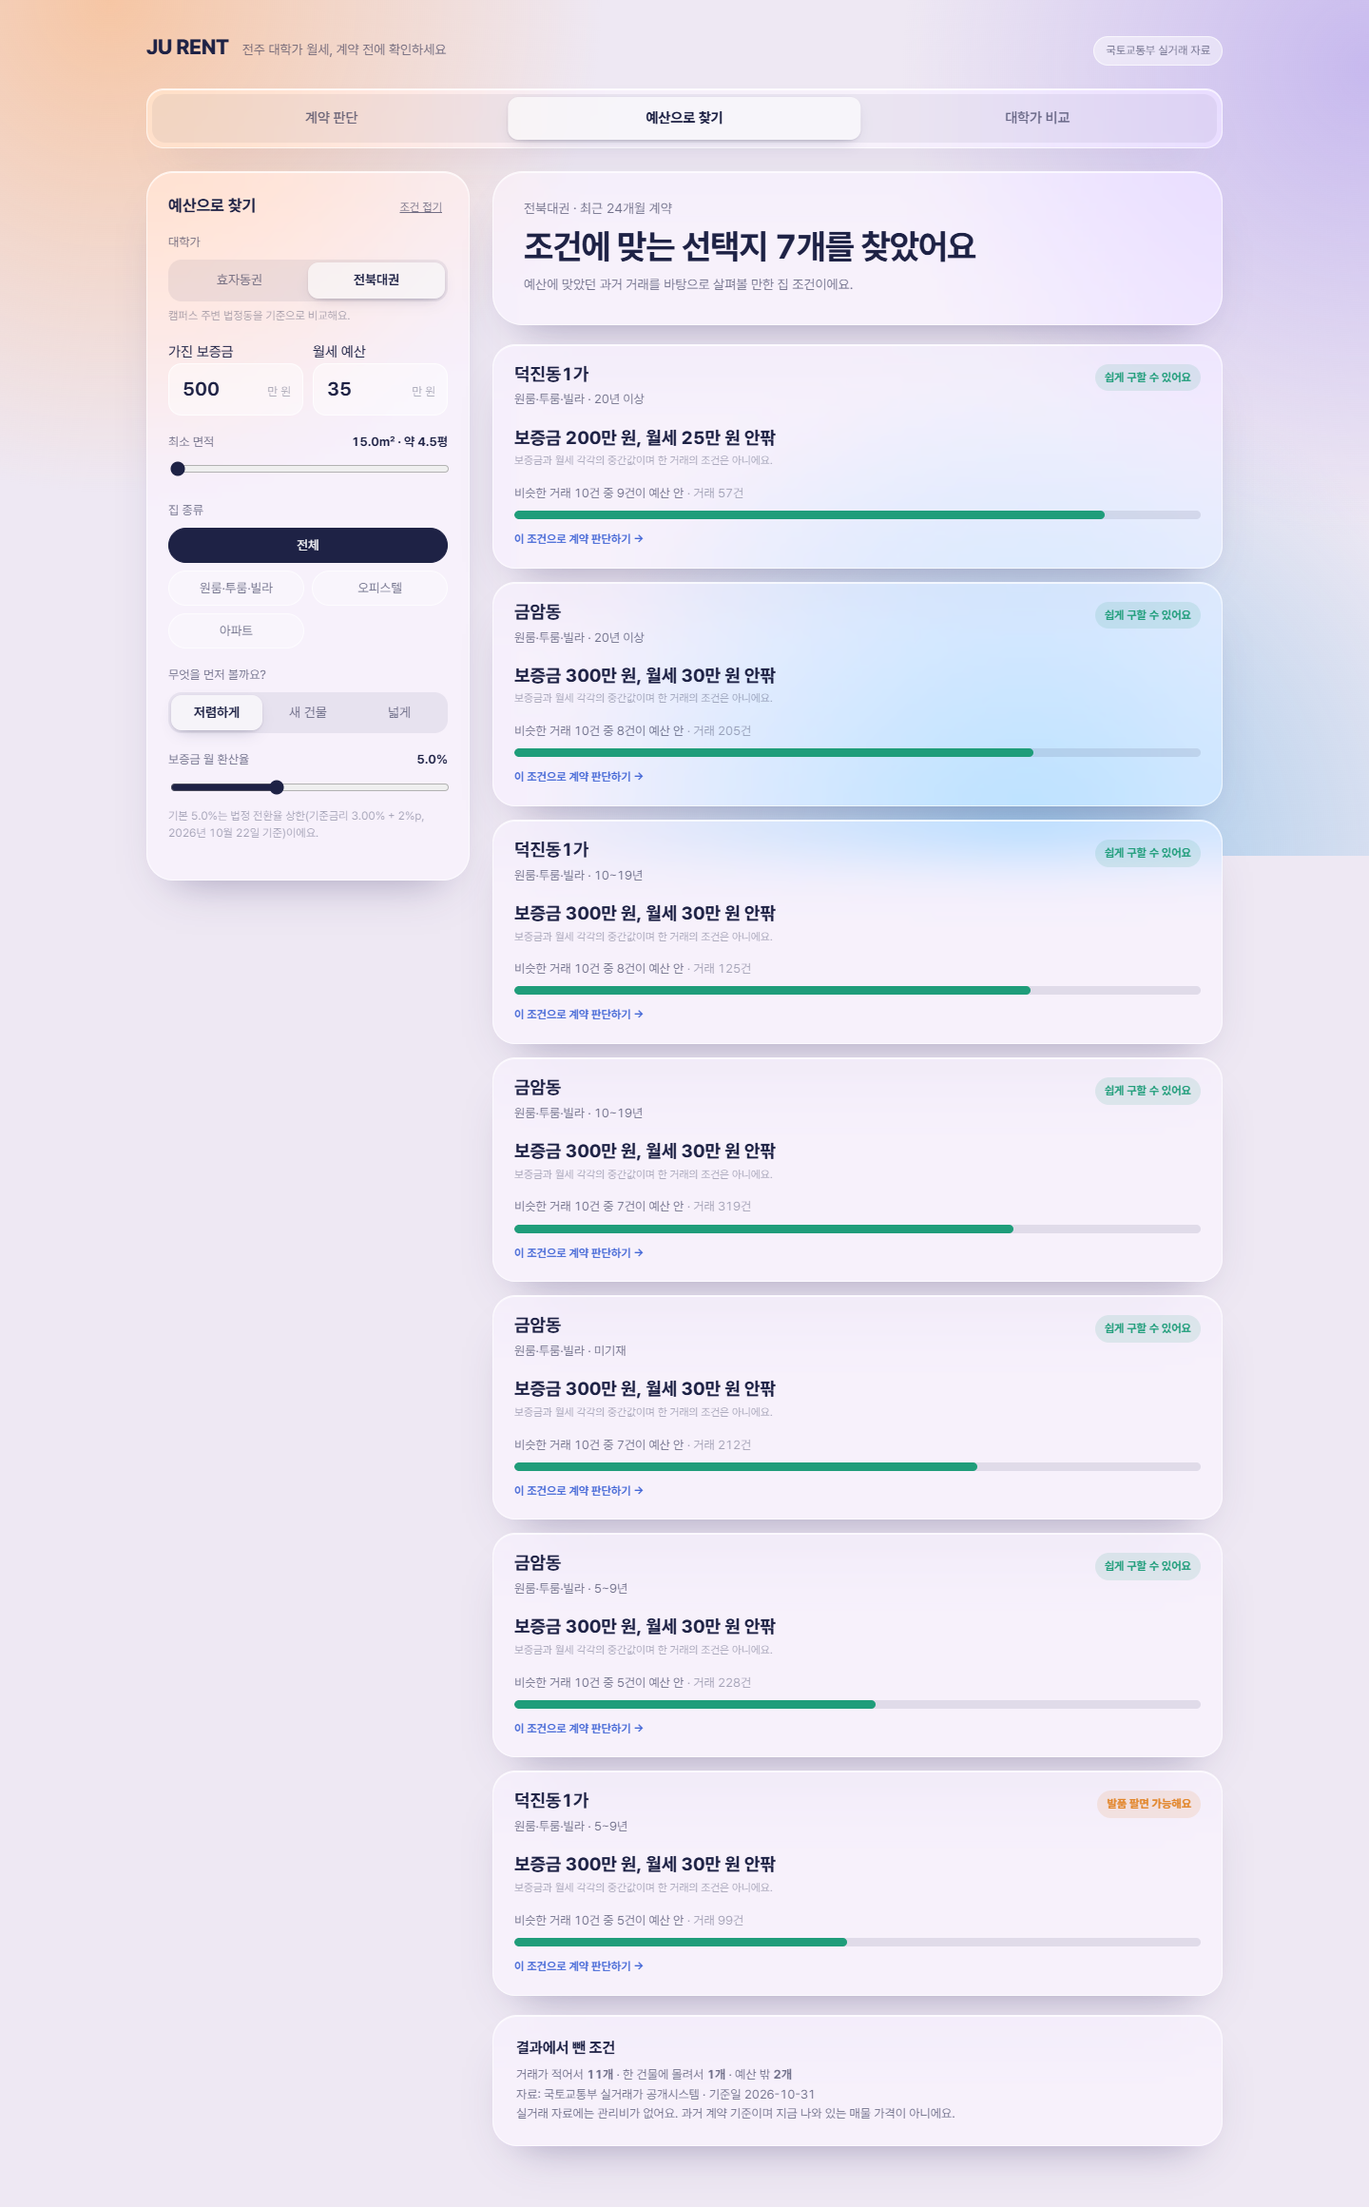
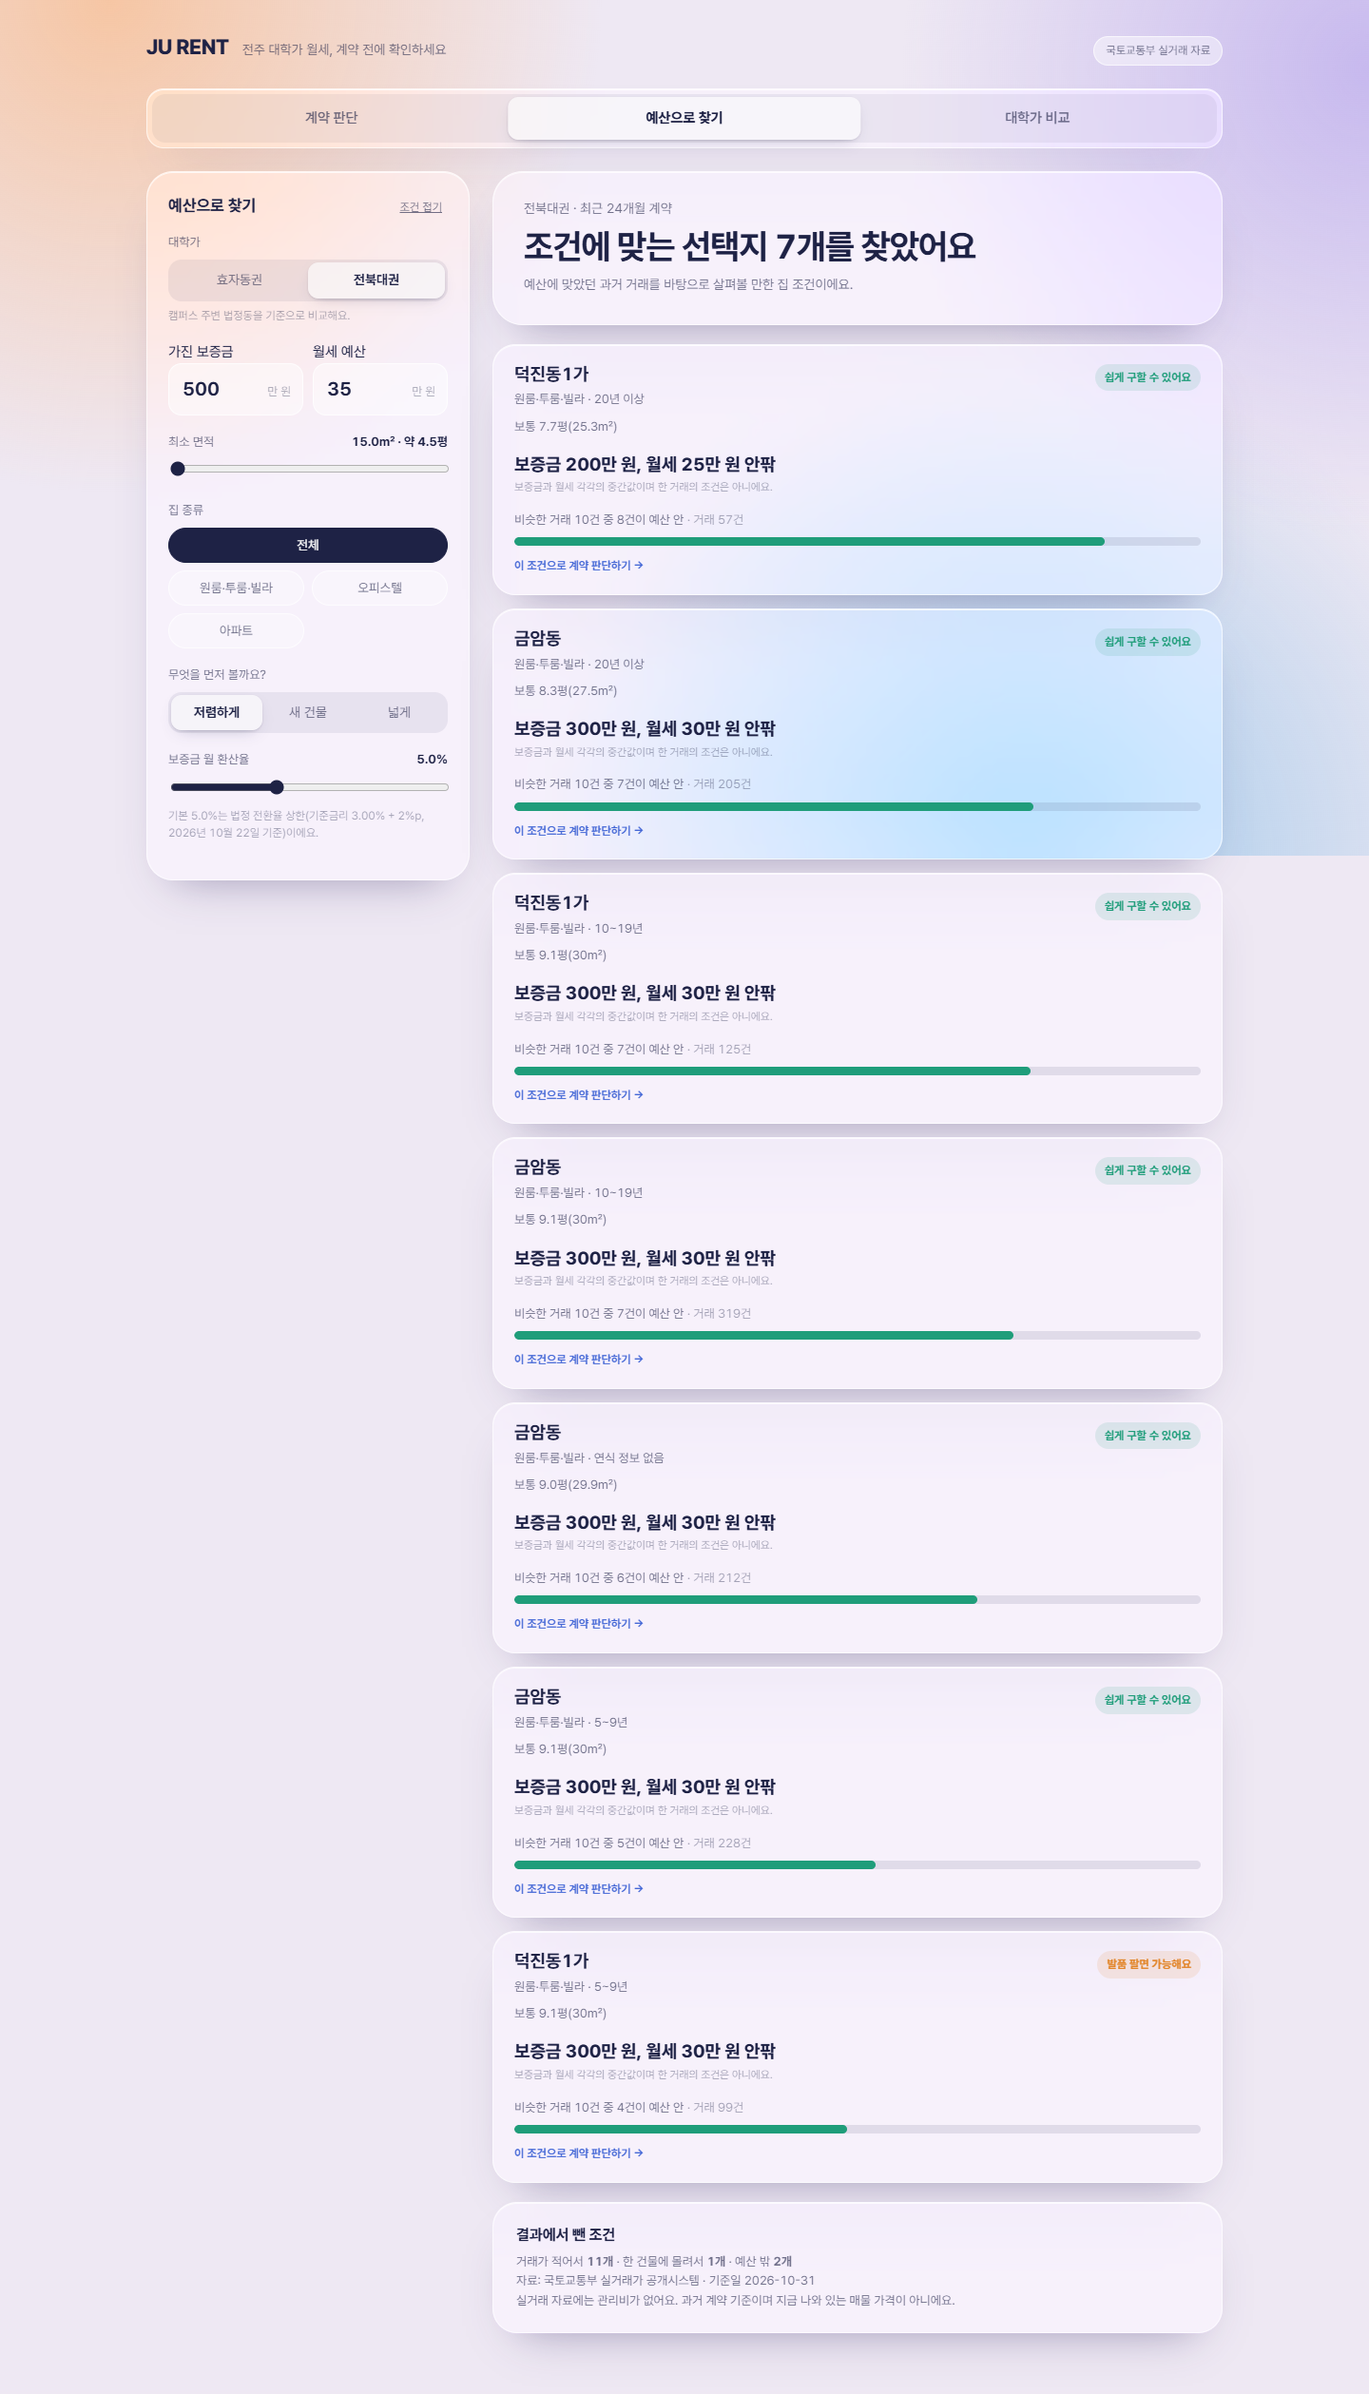
Refine area budget and comparison displays

diff --git a/web/src/AreaViews.tsx b/web/src/AreaViews.tsx
@@ -1,6 +1,6 @@
 import { AnimatePresence, motion, useReducedMotion } from 'motion/react'
 import { useEffect, useState } from 'react'
-import { EMPTY_BUDGET_MESSAGE, availabilityTone, budgetSummary, cardToContract, tenDealSentence, typicalTerms } from './areaCopy'
+import { EMPTY_BUDGET_MESSAGE, ageBandLabel, availabilityTone, budgetSummary, cardToContract, integerMoney, tenDealSentence, typicalArea, typicalRange, typicalTerms } from './areaCopy'
 import Count from './Count'
 import { rateHint } from './copy'
 import { housingName } from './housing'
@@ -37,9 +37,10 @@ function BudgetCard({ card, campus, rate, onChoose }: {
     initial={{ opacity: 0, y: reduced ? 0 : 12 }} animate={{ opacity: 1, y: 0 }} exit={{ opacity: 0, y: reduced ? 0 : -8 }}
     transition={{ duration: reduced ? 0 : 0.25, ease: [0.2, 0.8, 0.2, 1] }}
     onClick={() => onChoose(cardToContract(card, campus, rate))}
-    aria-label={`${card.dong} ${housingName(card.housing_type)} ${card.age_band}, 계약 판단에서 보기`}>
-    <span className="budget-card-head"><span><strong>{card.dong}</strong><small>{housingName(card.housing_type)} · {card.age_band}</small></span>
+    aria-label={`${card.dong} ${housingName(card.housing_type)} ${ageBandLabel(card.age_band)}, ${typicalArea(card.area_median_sqm)}, 계약 판단에서 보기`}>
+    <span className="budget-card-head"><span><strong>{card.dong}</strong><small>{housingName(card.housing_type)} · {ageBandLabel(card.age_band)}</small></span>
       <span className={`availability ${availabilityTone(card.availability_label)}`}>{card.availability_label}</span></span>
+    <span className="budget-area">{typicalArea(card.area_median_sqm)}</span>
     <span className="budget-terms">{typicalTerms(card)}</span>
     <span className="budget-typical-note">{card.typical_terms_note}</span>
     <span className="budget-bar-copy">{tenDealSentence(card)} <em>· 거래 <Count value={card.n} />건</em></span>
@@ -176,15 +177,24 @@ function decimal(value: number): string {
 
 function TrendChart({ rows, campuses }: { rows: PriceTrend[]; campuses: string[] }) {
   const values = rows.map(row => row.converted_median_10k_krw).filter((value): value is number => value !== null)
-  const low = Math.min(...values) - 2
-  const high = Math.max(...values) + 2
-  const y = (value: number) => 196 - (value - low) / (high - low) * 150
-  const x = (index: number) => 44 + index * 125
+  if (!values.length) return <p className="hint">추이를 표시할 거래가 부족해요.</p>
+  const tickStep = Math.max(1, Math.ceil((Math.max(...values) - Math.min(...values) + 2) / 4))
+  const low = Math.floor((Math.min(...values) - 0.8) / tickStep) * tickStep
+  const high = Math.ceil((Math.max(...values) + 0.8) / tickStep) * tickStep
+  const ticks = Array.from({ length: Math.round((high - low) / tickStep) + 1 }, (_, index) => low + index * tickStep)
+  const y = (value: number) => 190 - (value - low) / (high - low) * 136
+  const x = (index: number) => 58 + index * 125
   const years = [...new Set(rows.map(row => row.year))].sort()
   return <div className="trend-chart">
     <div className="trend-legend">{campuses.map((campus, index) => <span key={campus}>
       <i style={{ background: index === 0 ? 'var(--normal)' : 'var(--very)' }} />{campus}</span>)}</div>
-    <svg viewBox="0 0 720 245" role="img" aria-label="두 대학가의 원룸·투룸·빌라 25~35㎡ 연도별 월세 비교">
+    <div className="trend-plot"><svg viewBox="0 0 720 245" role="img" aria-label="두 대학가의 원룸·투룸·빌라 25~35㎡ 연도별 환산 월세 비교">
+      <desc>{rows.map(row => `${row.campus} ${row.year}년 ${row.converted_median_10k_krw === null ? '표본 부족' : `${decimal(row.converted_median_10k_krw)}만 원`}`).join(', ')}</desc>
+      <text x="7" y="28" className="trend-unit">만 원</text>
+      {ticks.map(tick => <g key={tick} className="trend-grid">
+        <line x1="43" y1={y(tick)} x2="698" y2={y(tick)} />
+        <text x="36" y={y(tick) + 4} textAnchor="end">{tick.toLocaleString('ko-KR')}</text>
+      </g>)}
       {years.map((year, index) => <text key={year} x={x(index)} y="228" textAnchor="middle" className="trend-year">
         {year === 2026 ? '2026*' : year}</text>)}
       {campuses.map((campus, index) => {
@@ -194,16 +204,27 @@ function TrendChart({ rows, campuses }: { rows: PriceTrend[]; campuses: string[]
         return <g key={campus} fill="none" stroke={color} strokeWidth="3">
           <polyline points={points.slice(0, 5).map(point => `${point.x},${point.y}`).join(' ')} />
           <line x1={points[4].x} y1={points[4].y} x2={points[5].x} y2={points[5].y} strokeDasharray="8 6" />
-          {points.map(point => <circle key={point.row.year} cx={point.x} cy={point.y} r="5" fill="white">
-            <title>{campus} {point.row.year}년 {point.row.converted_median_10k_krw === null ? '표본 부족' : `${decimal(point.row.converted_median_10k_krw)}만 원`}</title>
-          </circle>)}
+          {points.map(point => {
+            const other = rows.find(row => row.campus !== campus && row.year === point.row.year)
+            const otherY = other?.converted_median_10k_krw == null ? null : y(other.converted_median_10k_krw)
+            const close = otherY !== null && Math.abs(otherY - point.y) < 20
+            const lower = close && otherY !== null && point.y > otherY + 1
+            const higherOrEqual = index === 1 && close && otherY !== null && point.y <= otherY + 1
+            return <g key={point.row.year}>
+            <circle cx={point.x} cy={point.y} r="5" fill="white">
+              <title>{campus} {point.row.year}년 {point.row.converted_median_10k_krw === null ? '표본 부족' : `${decimal(point.row.converted_median_10k_krw)}만 원`}</title>
+            </circle>
+            {point.row.converted_median_10k_krw !== null && <text
+              x={point.x - (lower ? 18 : 0)} y={point.y - (higherOrEqual ? 28 : 13)}
+              textAnchor="middle" className="trend-point-value" fill={color} stroke="none">
+              {decimal(point.row.converted_median_10k_krw)}</text>}
+          </g>
+          })}
         </g>
       })}
-    </svg>
+    </svg></div>
+    <p className="trend-scroll-hint">그래프를 좌우로 밀어 전체 연도를 볼 수 있어요.</p>
     <p className="hint">* 2026년은 1~10월 계약이며 점선으로 표시했어요.</p>
-    <div className="trend-values">{rows.map(row => <div key={`${row.campus}-${row.year}`}>
-      <span>{row.campus} · {row.year}년{row.partial_year ? ' 1~10월' : ''}</span>
-      <b>{row.converted_median_10k_krw === null ? '표본 부족' : `${decimal(row.converted_median_10k_krw)}만 원`}</b></div>)}</div>
   </div>
 }
 
@@ -238,14 +259,14 @@ export function CompareView({ meta, rate, onRateChange }: SharedProps) {
     {displayed && <>
       <div className="compare-grid">{meta.campuses.map(campus => <section className="card glass compare-card" key={campus}>
         <h2>{campus}</h2><p className="compare-card-sub">집 종류와 면적에 따라 비교해요.</p>
-        <table className="compare-table"><thead><tr><th scope="col">집 종류·면적</th><th scope="col">월세 수준</th>
+        <table className="compare-table"><thead><tr><th scope="col">집 종류·면적</th><th scope="col">환산 월세(중간값)</th>
           <th scope="col">보통 계약 조건</th><th scope="col">거래</th></tr></thead><tbody>
           {displayed.area_bands.filter(row => row.campus === campus).map(row => <tr key={`${row.housing_type}-${row.area_band}`}>
             <th scope="row"><strong>{housingName(row.housing_type)}</strong><small>{row.area_band}</small></th>
-            <td data-label="월세 수준">{row.sample_note ? <span className="sample-pill">표본 부족</span> : <>
-              <b>{decimal(row.quantiles_10k_krw!.p50)}만 원</b><small>25~75%: {decimal(row.quantiles_10k_krw!.p25)}~{decimal(row.quantiles_10k_krw!.p75)}만 원</small></>}</td>
+            <td data-label="환산 월세(중간값)">{row.sample_note ? <span className="sample-pill">표본 부족</span> : <>
+              <b>{decimal(row.quantiles_10k_krw!.p50)}만 원</b><small className="compare-range">{typicalRange(row.quantiles_10k_krw!.p25, row.quantiles_10k_krw!.p75)}</small></>}</td>
             <td data-label="보통 계약 조건">{row.sample_note ? '—' : <span>
-              보증금 {decimal(row.deposit_median_10k_krw!)}만 원<br />월세 {decimal(row.monthly_median_10k_krw!)}만 원</span>}</td>
+              보증금 {integerMoney(row.deposit_median_10k_krw!)}만 원<br />월세 {integerMoney(row.monthly_median_10k_krw!)}만 원</span>}</td>
             <td data-label="거래">{row.n.toLocaleString('ko-KR')}건</td>
           </tr>)}</tbody></table></section>)}</div>
       <section className="card glass trend-section"><h2>원룸·투룸·빌라 월세 흐름</h2>

diff --git a/web/src/style.css b/web/src/style.css
@@ -264,6 +264,7 @@ button:focus-visible, input:focus-visible { outline: 2px solid var(--normal); ou
 .budget-card-head { display: flex; justify-content: space-between; align-items: flex-start; gap: 10px; }
 .budget-card-head strong { display: block; font-size: 19px; line-height: 1.2; }
 .budget-card-head small { display: block; color: var(--ink-soft); font-size: 13px; margin-top: 5px; }
+.budget-area { display: block; color: var(--ink-soft); font-size: 13px; margin-top: 8px; }
 .availability { display: inline-block; flex: none; padding: 5px 10px; border-radius: 999px; font-size: 12px; font-weight: 700; }
 .availability.easy { color: var(--cheap); background: rgba(31,157,122,.12); }
 .availability.possible { color: var(--pricey); background: rgba(226,134,43,.13); }
@@ -294,21 +295,23 @@ button:focus-visible, input:focus-visible { outline: 2px solid var(--normal); ou
 .compare-table tbody th { width: 27%; font-weight: 500; }
 .compare-table tbody th strong, .compare-table tbody th small, .compare-table td small { display: block; }
 .compare-table tbody th small, .compare-table td small { color: var(--ink-faint); margin-top: 3px; font-size: 11px; }
+.compare-table td .compare-range { white-space: nowrap; }
 .compare-table td b { font-size: 14px; }
 .sample-pill { display: inline-block; color: var(--pricey); background: rgba(226,134,43,.13); border-radius: 999px; padding: 2px 7px; white-space: nowrap; }
 .trend-section { min-width: 0; }
-.trend-chart svg { display: block; width: 100%; max-width: 900px; margin: auto; overflow: visible; }
+.trend-plot { overflow-x: auto; }
+.trend-chart svg { display: block; width: 100%; min-width: 700px; max-width: 900px; margin: auto; }
 .trend-chart polyline, .trend-chart line { stroke-linecap: round; stroke-linejoin: round; }
 .trend-chart circle { stroke-width: 3px; }
 .trend-year { fill: var(--ink-soft); font: 13px "Pretendard Variable", sans-serif; }
+.trend-grid line { stroke: rgba(30,34,69,.13); stroke-width: 1; }
+.trend-grid text, .trend-unit { fill: var(--ink-faint); font: 12px "Pretendard Variable", sans-serif; }
+.trend-point-value { font: 700 12px "Pretendard Variable", sans-serif; }
 .trend-legend { display: flex; gap: 20px; justify-content: center; color: var(--ink-soft); font-size: 13px; }
 .trend-legend span { display: inline-flex; align-items: center; gap: 7px; }
 .trend-legend i { width: 13px; height: 4px; border-radius: 999px; }
 .trend-chart > .hint { text-align: center; }
-.trend-values { display: grid; grid-template-columns: repeat(3, minmax(0, 1fr)); gap: 6px 12px; margin-top: 16px; }
-.trend-values div { display: flex; justify-content: space-between; gap: 8px; padding: 7px 9px; border-radius: 10px; background: rgba(255,255,255,.28); font-size: 12px; }
-.trend-values span { color: var(--ink-soft); }
-.trend-values b { white-space: nowrap; }
+.trend-scroll-hint { display: none; color: var(--ink-faint); font-size: 12px; text-align: center; }
 @media (max-width: 900px) {
   .tab-pane { grid-template-columns: minmax(0, 1fr); gap: 18px; }
   .budget-panel { position: static; }
@@ -319,12 +322,11 @@ button:focus-visible, input:focus-visible { outline: 2px solid var(--normal); ou
   .compare-table th, .compare-table td { border: 0; padding: 3px 0; }
   .compare-table td { display: flex; justify-content: space-between; gap: 10px; }
   .compare-table td::before { content: attr(data-label); color: var(--ink-faint); flex: none; }
-  .trend-values { grid-template-columns: repeat(2, minmax(0, 1fr)); }
 }
 @media (max-width: 480px) {
   .top-tabs .seg button { font-size: 13px; padding: 9px 2px; }
   .budget-card { padding: 17px; }
   .budget-card-head { flex-wrap: wrap; }
   .budget-terms { font-size: 17px; }
-  .trend-values { grid-template-columns: 1fr; }
+  .trend-scroll-hint { display: block; }
 }

diff --git a/web/src/areaCopy.test.ts b/web/src/areaCopy.test.ts
@@ -1,5 +1,5 @@
 import { describe, expect, it } from 'vitest'
-import { EMPTY_BUDGET_MESSAGE, availabilityTone, budgetSummary, cardToContract, tenDealSentence, typicalTerms } from './areaCopy'
+import { EMPTY_BUDGET_MESSAGE, ageBandLabel, availabilityTone, budgetSummary, cardToContract, integerMoney, tenDealSentence, typicalArea, typicalRange, typicalTerms } from './areaCopy'
 import type { BudgetRecommendation } from './types'
 
 const card: BudgetRecommendation = {
@@ -18,6 +18,22 @@ describe('budget and comparison screen copy', () => {
     expect(availabilityTone(card.availability_label)).toBe('easy')
     expect(availabilityTone('발품 팔면 가능해요')).toBe('possible')
     expect(tenDealSentence(card)).toBe('비슷한 거래 10건 중 5건이 예산 안')
+  })
+
+  it('floors the ten-deal count at the 50% badge boundary', () => {
+    expect(tenDealSentence({ within_budget_pct: 49.9 })).toBe('비슷한 거래 10건 중 4건이 예산 안')
+    expect(tenDealSentence({ within_budget_pct: 50 })).toBe('비슷한 거래 10건 중 5건이 예산 안')
+  })
+
+  it('shows the API area median and explains an unknown building age', () => {
+    expect(typicalArea(card.area_median_sqm)).toBe('보통 8.0평(26.5㎡)')
+    expect(ageBandLabel('미기재')).toBe('연식 정보 없음')
+    expect(ageBandLabel('5~9년')).toBe('5~9년')
+  })
+
+  it('keeps contract terms and the usual range in integer ten-thousand won', () => {
+    expect(integerMoney(1234.5)).toBe('1,235')
+    expect(typicalRange(1234.49, 2345.5)).toBe('보통 1,234~2,346만 원')
   })
 
   it('uses a student-facing empty message without an internal grouping term', () => {

diff --git a/web/src/areaCopy.ts b/web/src/areaCopy.ts
@@ -17,7 +17,23 @@ export function typicalTerms(card: Pick<BudgetRecommendation, 'deposit_median_10
 }
 
 export function tenDealSentence(card: Pick<BudgetRecommendation, 'within_budget_pct'>): string {
-  return `비슷한 거래 10건 중 ${Math.round(card.within_budget_pct / 10)}건이 예산 안`
+  return `비슷한 거래 10건 중 ${Math.floor(card.within_budget_pct / 10)}건이 예산 안`
+}
+
+export function typicalArea(areaSqm: number): string {
+  return `보통 ${(areaSqm / 3.305785).toFixed(1)}평(${areaSqm.toLocaleString('ko-KR', { maximumFractionDigits: 1 })}㎡)`
+}
+
+export function ageBandLabel(ageBand: string): string {
+  return ageBand === '미기재' ? '연식 정보 없음' : ageBand
+}
+
+export function integerMoney(value: number): string {
+  return Math.round(value).toLocaleString('ko-KR')
+}
+
+export function typicalRange(p25: number, p75: number): string {
+  return `보통 ${integerMoney(p25)}~${integerMoney(p75)}만 원`
 }
 
 export function cardToContract(card: BudgetRecommendation, campus: string, rate_pct: number): ContractInput {
